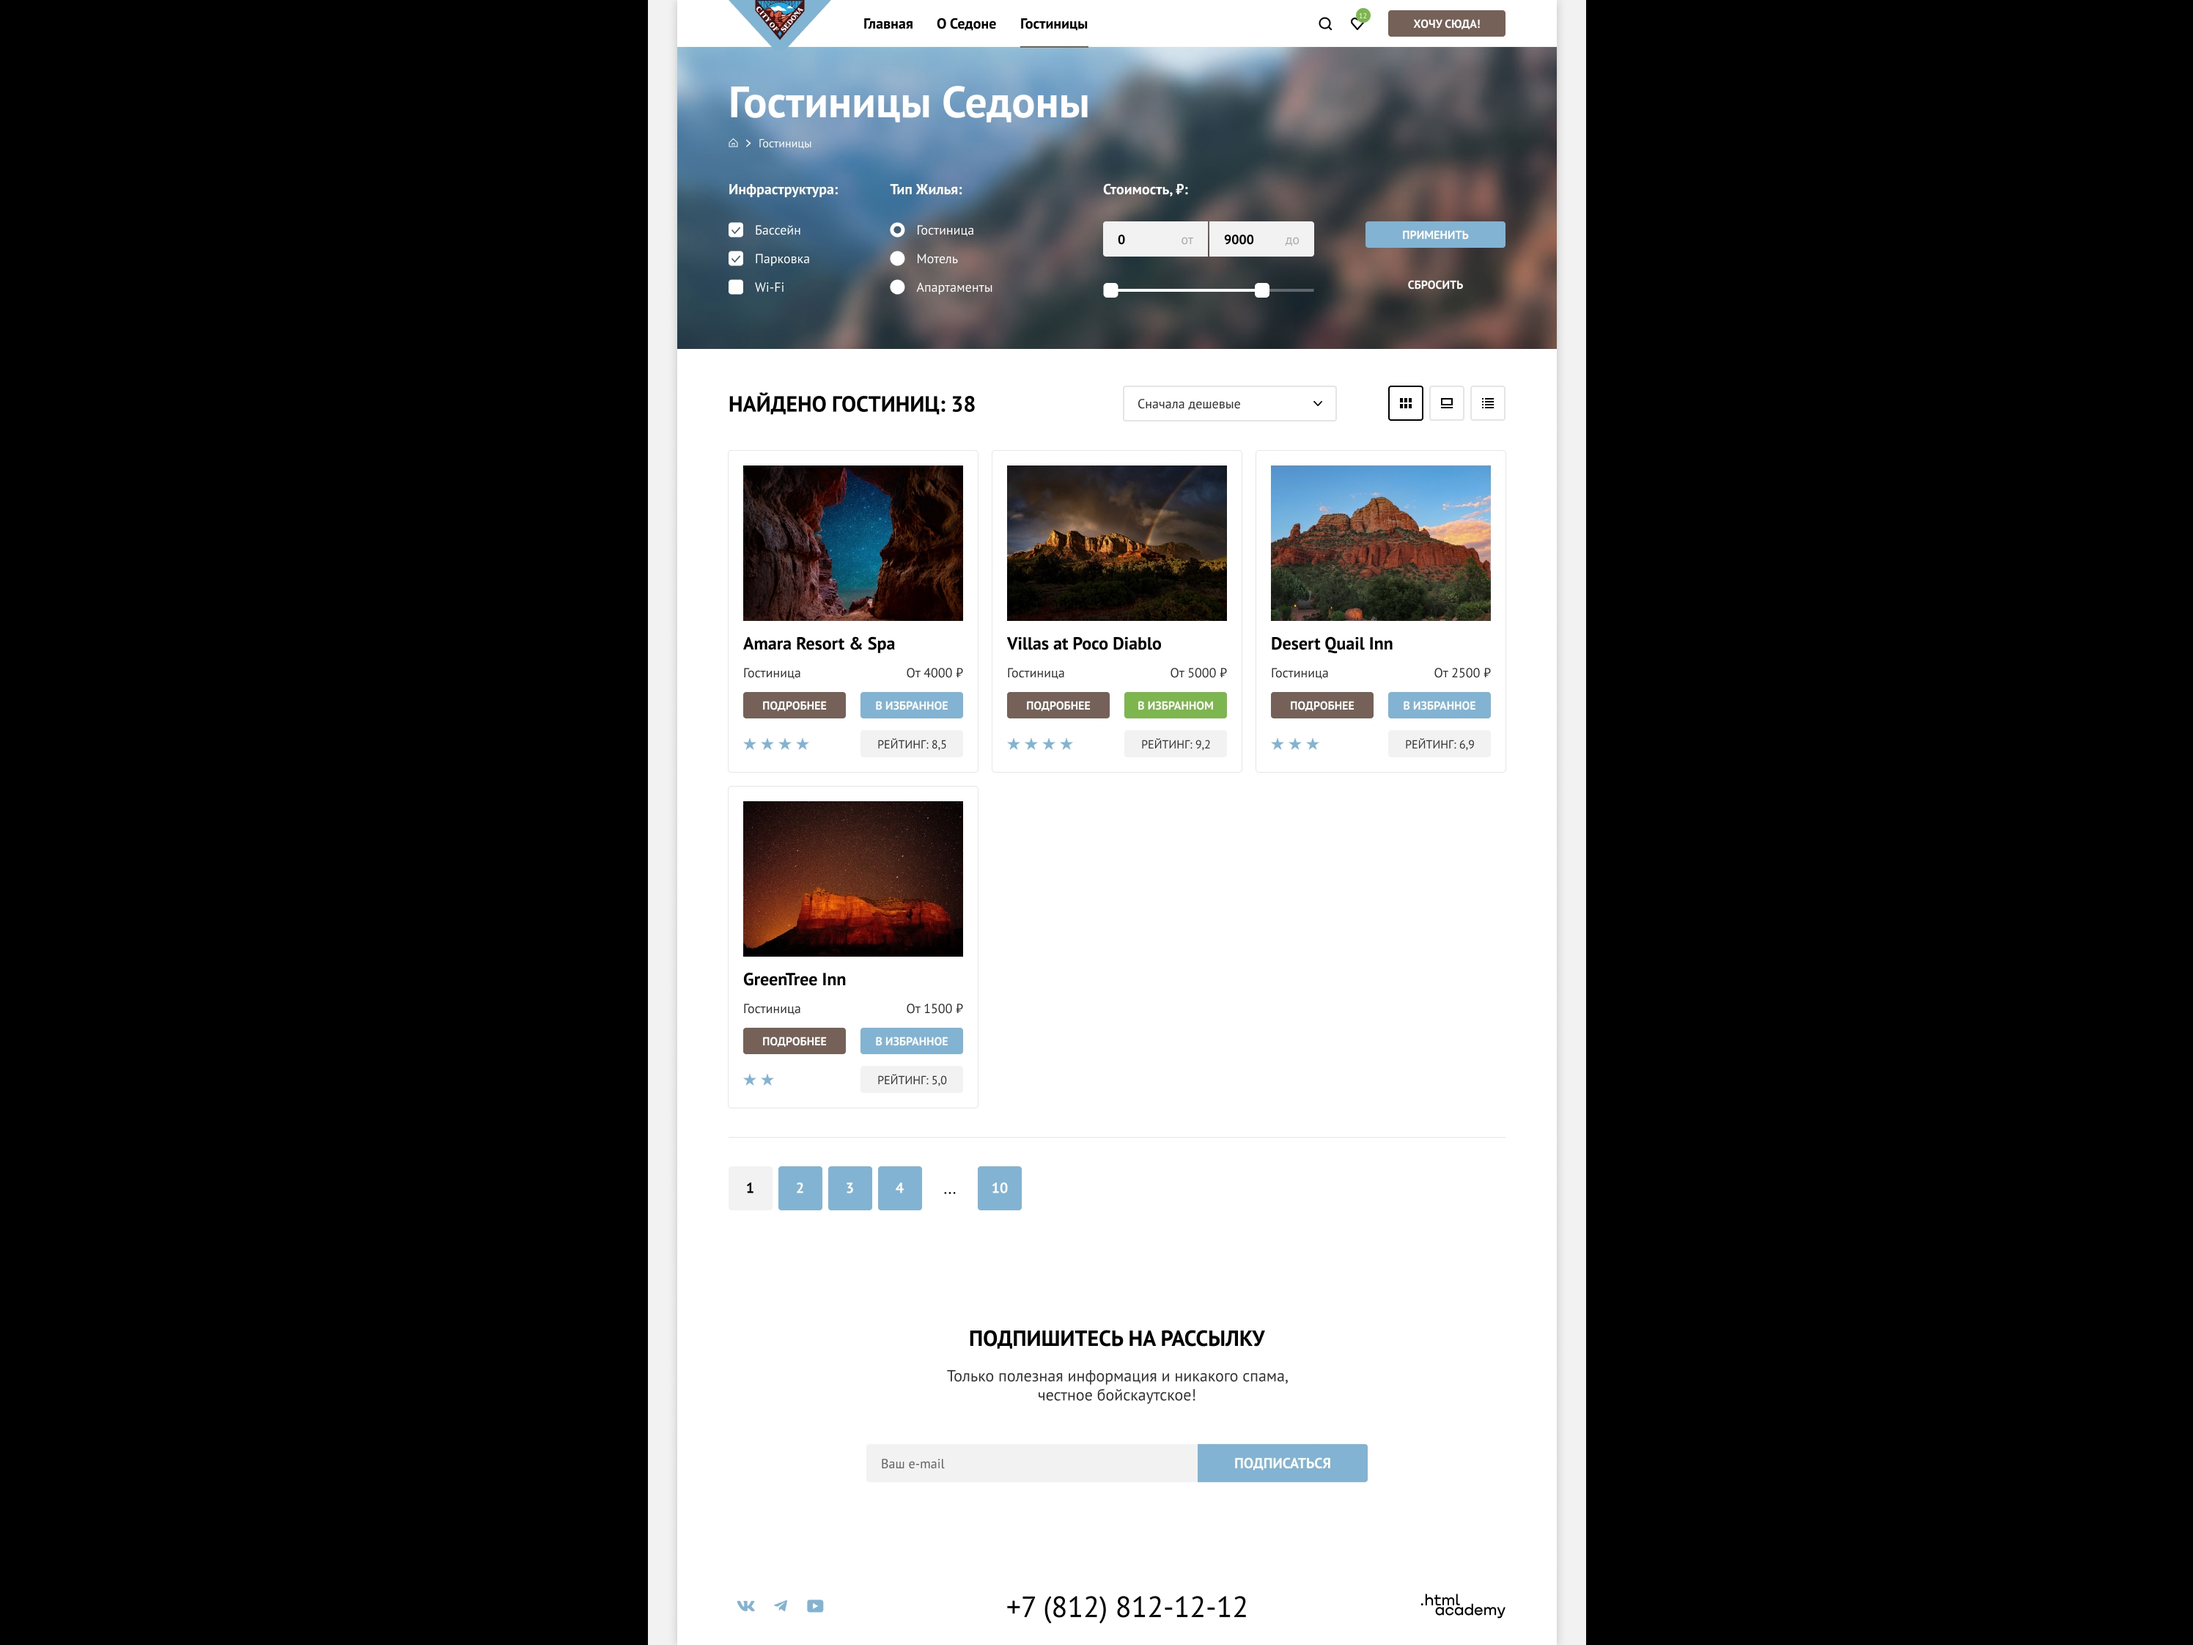
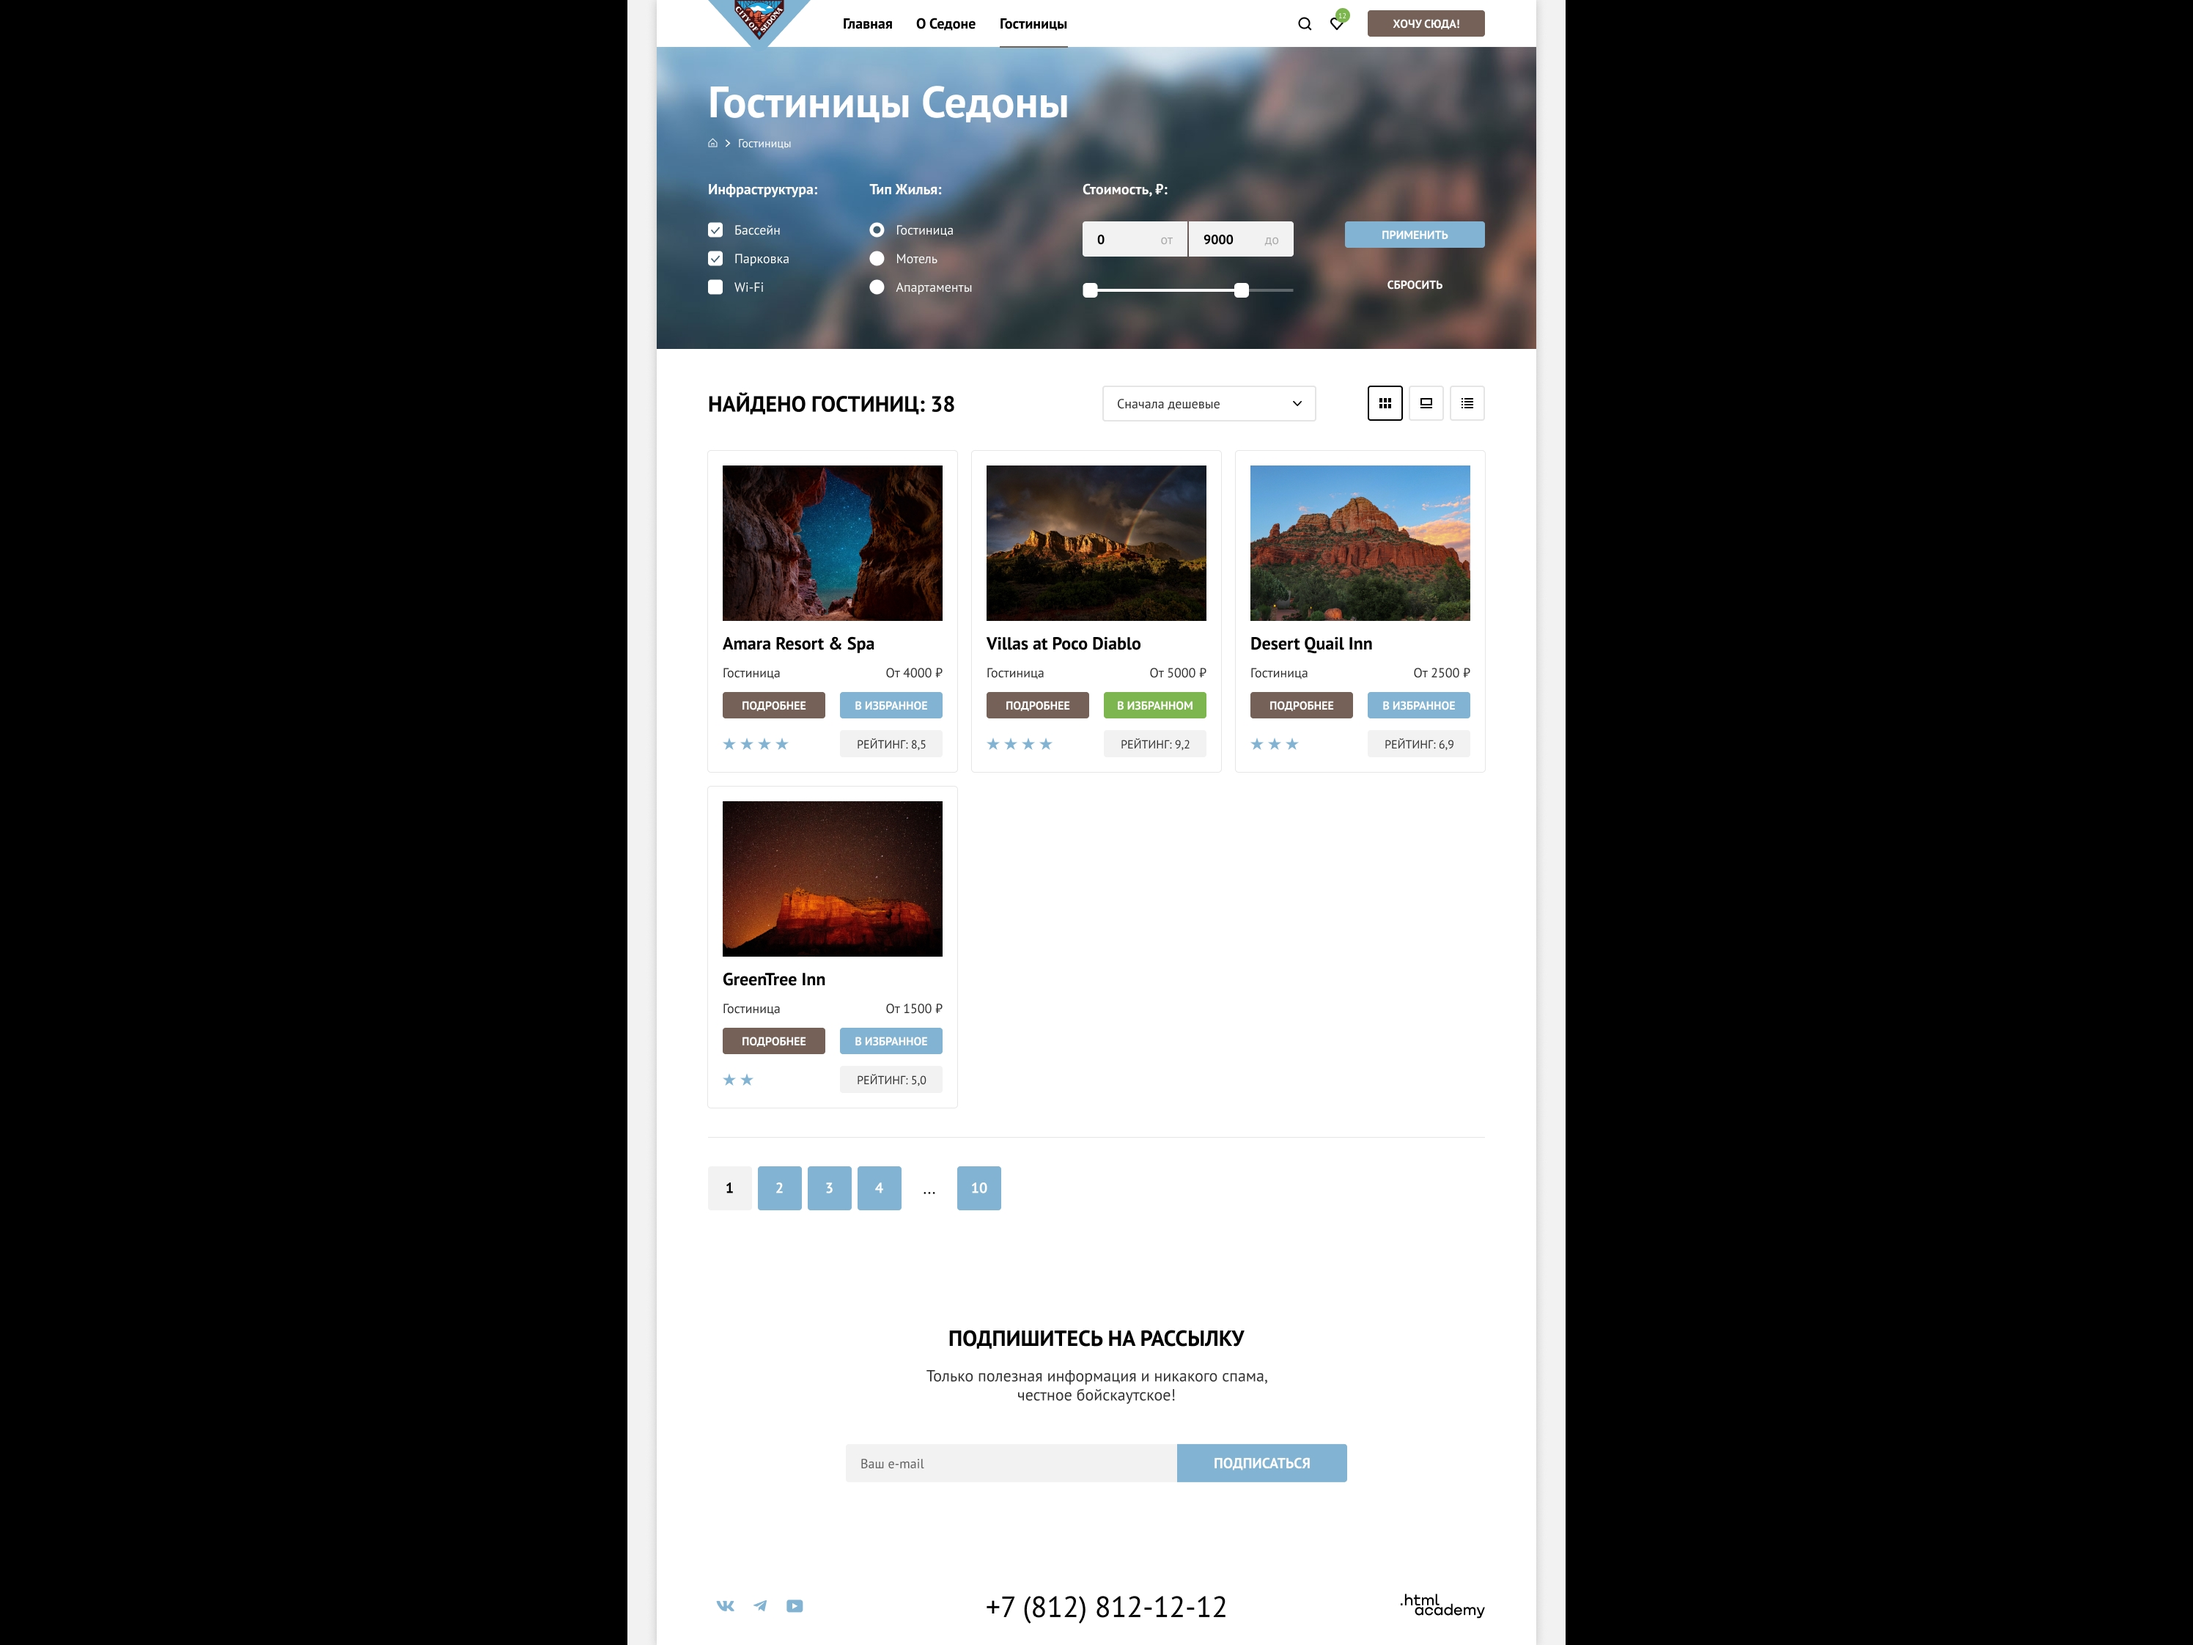
in works

diff --git a/source/styles/components/page-footer.less b/source/styles/components/page-footer.less
@@ -1,14 +1,15 @@
 .page-footer__mailing {
 	padding-top: 130px;
-	padding-bottom: 90px;
+	padding-bottom: 104px;
 	text-align: center;
 	color: #000000;
 
 	&--alter {
-		padding-top: 100px;
+		padding-top: 96px;
 		color: #ffffff;
-		background-image: url('../images/bg-form.webp');
+		background-image: url('../images/bg-subscribe.webp');
 		background-repeat: no-repeat;
+		background-size: cover;
 	}
 }
 
@@ -22,7 +23,7 @@
 .page-footer__text {
 	margin: 0;
 	margin-top: 20px;
-	margin-bottom: 54px;
+	margin-bottom: 55px;
 	text-align: center;
 	color: #333333;
 
@@ -84,8 +85,8 @@
 .contacts-inner {
 	display: flex;
 	align-items: center;
-	padding-top: 35px;
-	padding-bottom: 35px;
+	padding-top: 23px;
+	padding-bottom: 12px;
 	padding-left: 29px;
 }
 
@@ -101,7 +102,6 @@
 	position: relative;
 	display: flex;
 	text-decoration: none;
-	background-color: #ffffff;
 	border-radius: 10px;
 
 	&::before {

diff --git a/source/styles/components/main-catalog.less b/source/styles/components/main-catalog.less
@@ -10,7 +10,7 @@
 }
 
 .main-catalog__inner {
-	background-image: url('../images/bg-form.webp');
+	background-image: url('../images/bg-filters.webp');
 }
 
 .main-catalog__form {

diff --git a/source/styles/components/search-block.less b/source/styles/components/search-block.less
@@ -18,7 +18,7 @@
 
 .search-block__link {
 	margin-top: 55px;
-	margin-bottom: 93px;
+	margin-bottom: 96px;
 	padding: 8px 50px;
 	font-weight: 700;
 	font-size: 20px;

diff --git a/source/styles/components/page.less b/source/styles/components/page.less
@@ -2,6 +2,7 @@
 	display: flex;
 	flex-direction: column;
 	min-height: 100vh;
+	background-color: #ffffff;
 	box-shadow: 0 0 15px rgba(0, 0, 0, 0.2);
 }
 

diff --git a/source/styles/components/page-main.less b/source/styles/components/page-main.less
@@ -46,7 +46,3 @@
 		background-color: rgba(131, 179, 211, 0.12);
 	}
 }
-
-.page-main__search {
-	background-color: #ffffff;
-}
